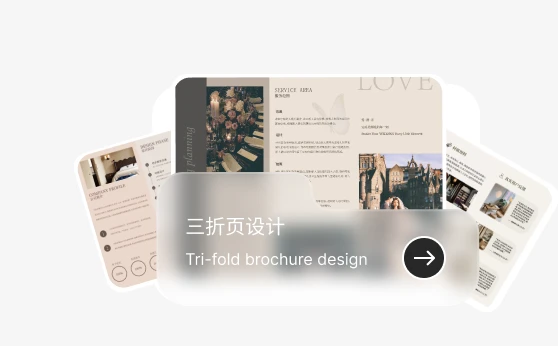
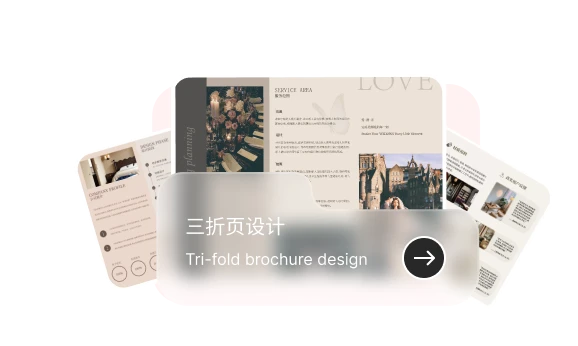
Swap second-screen fan cards for the revised design set

Changed region(s): [[0.1219, 0.2023, 0.9749, 0.8671], [0.1828, 0.7225, 0.3047, 0.8382], [0.5789, 0.3179, 0.7007, 0.4046]]

diff --git a/index.html b/index.html
@@ -84,15 +84,15 @@
         <div class="manifesto-collage fan-collage" aria-label="作品卡片">
           <div class="fan-row fan-row-top">
             <a class="fan-card" href="#project/mossio" style="--r:-7deg; --y:10px; --i:0">
-              <img src="./assets/fan-01.webp" alt="美妆与数码产品详情页设计" loading="lazy" />
+              <img src="./assets/fan-01.webp?v=2" alt="烘焙与香氛品牌 KT 板设计" loading="lazy" />
               <span>01</span>
             </a>
             <a class="fan-card" href="#project/stillwater" style="--r:3deg; --y:-8px; --i:1">
-              <img src="./assets/fan-02.webp" alt="烘焙与香氛品牌 KT 板设计" loading="lazy" />
+              <img src="./assets/fan-02.webp?v=2" alt="耳机与彩妆详情页设计" loading="lazy" />
               <span>02</span>
             </a>
             <a class="fan-card" href="#project/wild-signal" style="--r:-3deg; --y:16px; --i:2">
-              <img src="./assets/fan-03.webp" alt="耳机与彩妆详情页设计" loading="lazy" />
+              <img src="./assets/fan-03.webp?v=2" alt="半山行字体设计" loading="lazy" />
               <span>03</span>
             </a>
           </div>
@@ -100,15 +100,15 @@
           <a class="clone-outline-button" href="#work">查看更多 <b>→</b></a>
           <div class="fan-row fan-row-bottom">
             <a class="fan-card" href="#project/afterglow" style="--r:6deg; --y:12px; --i:3">
-              <img src="./assets/fan-04.webp" alt="品牌三折页设计" loading="lazy" />
+              <img src="./assets/fan-04.webp?v=2" alt="品牌三折页设计" loading="lazy" />
               <span>04</span>
             </a>
             <a class="fan-card" href="#project/terra" style="--r:-4deg; --y:-6px; --i:4">
-              <img src="./assets/fan-05.webp" alt="柠檬茶包装设计" loading="lazy" />
+              <img src="./assets/fan-05.webp?v=2" alt="柠檬茶包装设计" loading="lazy" />
               <span>05</span>
             </a>
             <a class="fan-card" href="#project/mossio" style="--r:8deg; --y:8px; --i:5">
-              <img src="./assets/fan-06.webp" alt="半山行字体设计" loading="lazy" />
+              <img src="./assets/fan-06.webp?v=2" alt="厨电产品详情页设计" loading="lazy" />
               <span>06</span>
             </a>
           </div>
